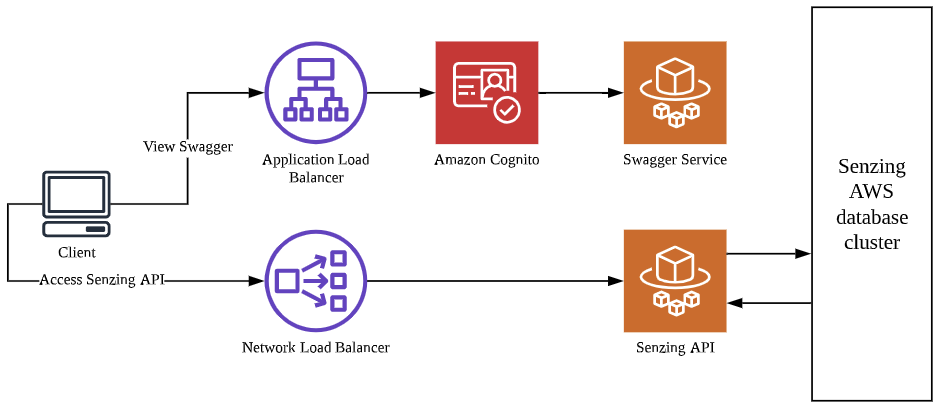
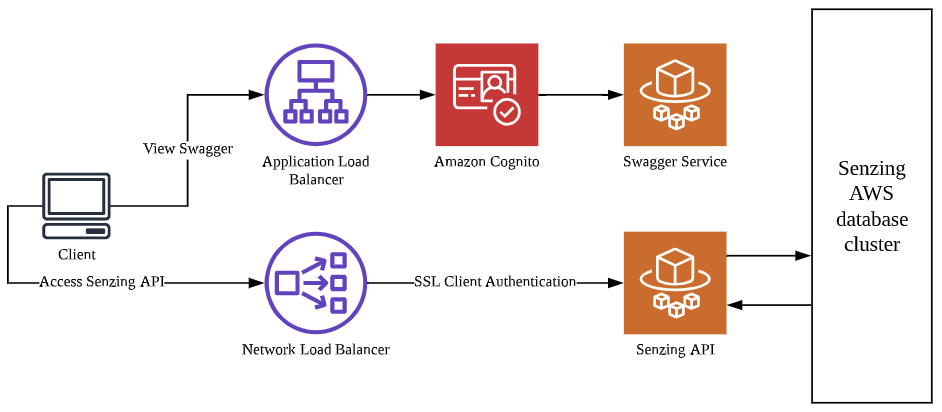
#12 savepoint

diff --git a/README.md b/README.md
@@ -15,7 +15,7 @@ Using this stack, a developer could view the api documentation via swagger and a
 
 1. [Pre-requisites](#Pre-requisites)
 1. [How to Deploy?](#how-to-deploy)
-1. [Expectations](#expectations)
+1. [How to generate keystores for SSL client authentication?](#how-to-generate-keystores-for-SSL-client-authentication)
 
 ## Pre-requisites
 
@@ -25,23 +25,51 @@ Using this stack, a developer could view the api documentation via swagger and a
 
 ## How to Deploy?
 
+1. :warning: **Warning:** This Cloudformation deployment will accrue AWS costs.
+   With appropriate permissions, the
+   [AWS Cost Explorer](https://aws.amazon.com/aws-cost-management/aws-cost-explorer/)
+   can help evaluate costs.
+1. Visit [AWS Cloudformation with dev-rest template](https://console.aws.amazon.com/cloudformation/home#/stacks/new?stackName=sz-dev&templateURL=https://s3.amazonaws.com/public-read-access/aws-cloudformation-dev-rest/cloudformation.yaml)
+1. At lower-right, click on "Next" button.
+1. In **Specify stack details**
+    1. In **Parameters**
+        1. In **Senzing installation**
+            1. Accept the End User License Agreement
+            1. Adjust the Senzing version, if necessary
+            1. If using more than 100k records, input base64 encoded license string
+        1. In **Identify existing database stack**
+            1. Enter the stack name of the previously deployed
+               [aws-cloudformation-database-cluster](https://github.com/Senzing/aws-cloudformation-database-cluster)
+               Cloudformation stack
+               Example:  `senzing-db`
+        1. In **Security**
+            1. Enter your email address.  Example: `me@example.com`
+            1. Enter the permitted IP address block
+            1. Enter a base64 representation of the server keystore with the relevant certificates loaded in
+            1. Enter the server keystore password
+            1. Enter the server keystore alias
+            1. Enter a base64 representation of the client keystore with the relevant certificates loaded in
+            1. Enter the client keystore password
+        1. In **Security responsibility**
+            1. Understand the nature of the security in the deployment.
+            1. Once understood, enter "I AGREE".
+    2. At lower-right, click "Next" button.
+2. In **Configure stack options**
+    1. At lower-right, click "Next" button.
+3. In **Review senzing-basic**
+    1. Near the bottom, in **Capabilities**
+        1. Check ":ballot_box_with_check: I acknowledge that AWS CloudFormation might create IAM resources."
+    2. At lower-right, click "Create stack" button.
 
-
-## How to setup SSL client authentication?
+## How to generate keystores for SSL client authentication?
 
 The following instructions would typically be done by a **system admin**.
 
-1. Install [adoptopenjdk 11](https://adoptopenjdk.net/archive.html)
+1. Generate a key store, certificate and trust store going through [step 1 & 2 in this guide](https://github.com/Senzing/senzing-api-server#ssl-client-authentication)
 
-2. Generate a key store, certificate and trust store going through [step 1 & 2 in this guide](https://github.com/Senzing/senzing-api-server#ssl-client-authentication)
+1. Convert key store and trust store into base64
 
-3. Convert key store and trust store into base64
-
-```
-base64 <path to key store>
-base64 <path to trust store>
-```
-4. Put base64 output into cloudformation stack
+1. Put base64 output into cloudformation stack
 
 ![cloudformation stack](assets/cft_input.png)
 
